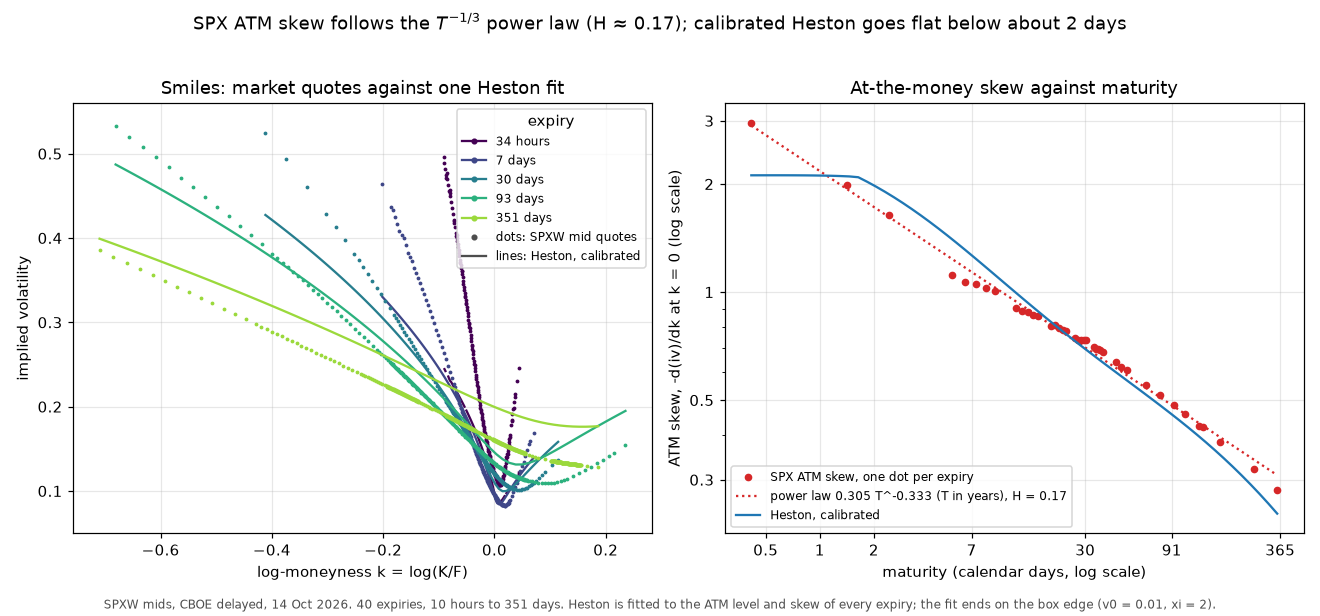
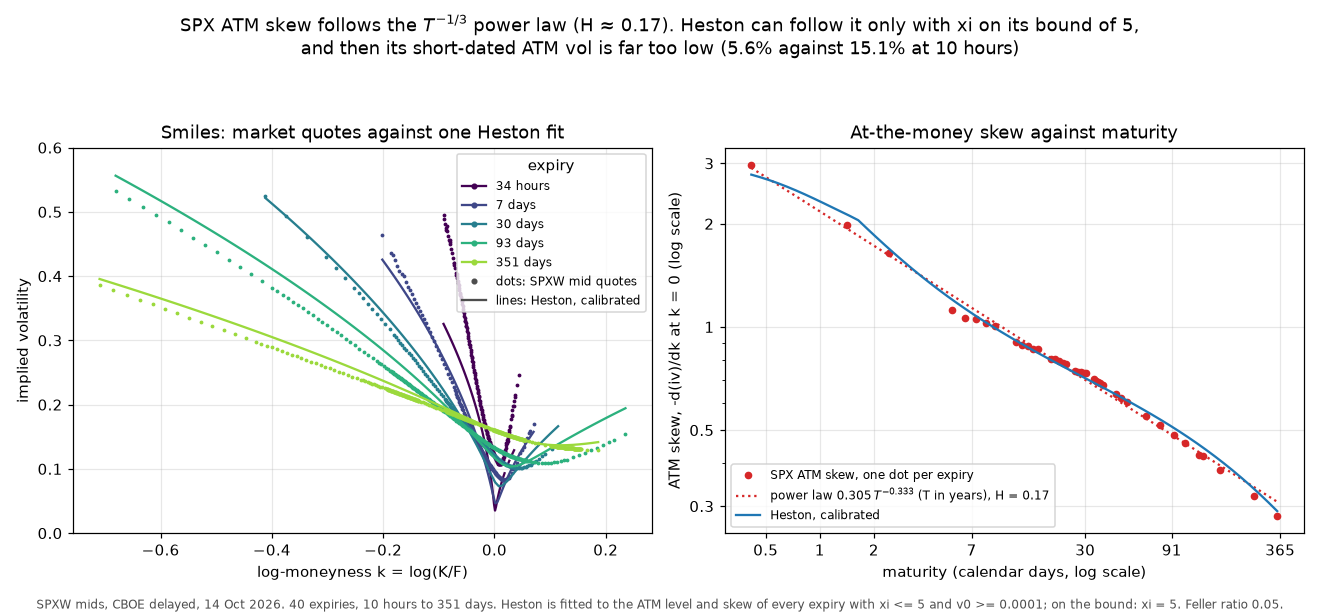
Widen the session 00 Heston box and report that the fit is bound-limited in xi

diff --git a/docs/figure_00.py b/docs/figure_00.py
@@ -3,9 +3,15 @@
 
 The Heston parameters are refit here. The loss is the at-the-money level and
 skew at every expiry, unweighted, in one residual vector, minimised with scipy
-``least_squares`` (``trf``). The box is the session slider box with kappa
-allowed up to 20: v0 in [0.01, 0.15], kappa in [0.1, 20], theta in
-[0.01, 0.15], xi in [0.05, 2], rho in [-0.99, 0.99].
+``least_squares`` (``trf``). The box is v0 in [1e-4, 0.15], kappa in [0.1, 50],
+theta in [0.001, 0.3], xi in [0.05, 5], rho in [-0.99, 0.99]. ``XI_MAX=10``
+raises the xi bound and writes ``docs/00_the_smile_xi10.png`` instead.
+
+Earlier versions used the session slider box (v0 >= 0.01, xi <= 2). The fit
+ended on both of those edges, so its flat short end was set by the box and not
+by the data. In the wider box v0 moves inside and only xi stays on its edge.
+Starts whose residuals are not finite are skipped (one of 35), and a residual
+that turns non-finite during a fit is replaced by 10.
 
 The fit is a seeded multi-start: the three hand-picked starts used before,
 plus 32 points of a scrambled Sobol sequence (seed 0) spread over the box.
@@ -20,6 +26,7 @@ discontinuous. Earlier versions of this figure fitted that discontinuous loss,
 which is why their result depended on the optimiser's path.
 """
 
+import os
 from pathlib import Path
 
 import matplotlib
@@ -34,9 +41,11 @@ from scipy.stats import qmc  # noqa: E402
 
 from volsurface import chains, models, smile  # noqa: E402
 
-# Slider box from sessions/00_the_smile.py, with the kappa upper used in LOG.md.
-LO = np.array([0.01, 0.1, 0.01, 0.05, -0.99])
-HI = np.array([0.15, 20.0, 0.15, 2.0, 0.99])
+# Wide enough that only xi, the parameter the short-end skew needs, can bind.
+LO = np.array([1e-4, 0.1, 0.001, 0.05, -0.99])
+# XI_MAX=10 python docs/figure_00.py reruns the fit with a wider xi bound (README).
+XI_MAX = float(os.environ.get("XI_MAX", "5"))
+HI = np.array([0.15, 50.0, 0.3, XI_MAX, 0.99])
 NAMES = ("v0", "kappa", "theta", "xi", "rho")
 HAND_STARTS = (
     np.array([0.011, 3.0, 0.04, 0.4, -0.9]),
@@ -71,7 +80,15 @@ def _residuals(x: np.ndarray) -> np.ndarray:
 
 
 # %% Fit
-results = [least_squares(_residuals, x0, bounds=(LO, HI), method="trf") for x0 in starts()]
+def _safe(x: np.ndarray) -> np.ndarray:
+    r = _residuals(x)
+    return np.where(np.isfinite(r), r, 10.0)
+
+
+all_starts = starts()
+finite_starts = [x0 for x0 in all_starts if np.all(np.isfinite(_residuals(x0)))]
+print(f"starts with finite residuals: {len(finite_starts)} of {len(all_starts)}")
+results = [least_squares(_safe, x0, bounds=(LO, HI), method="trf") for x0 in finite_starts]
 order = sorted(range(len(results)), key=lambda i: (round(float(results[i].cost), 10), i))
 best = results[order[0]]
 n_hit = sum(abs(r.cost - best.cost) <= 1e-6 * best.cost for r in results)
@@ -160,7 +177,7 @@ handles += [
 ax.set(
     xlabel="log-moneyness k = log(K/F)",
     ylabel="implied volatility",
-    ylim=(0.05, 0.56),
+    ylim=(0.0, 0.6),
     title="Smiles: market quotes against one Heston fit",
 )
 ax.grid(True, alpha=0.3)
@@ -170,7 +187,7 @@ ax = fig.add_subplot(1, 2, 2)
 ax.loglog(365 * maturities, -market_skew, "o", ms=4, color="#d62728",
           label="SPX ATM skew, one dot per expiry")
 ax.loglog(365 * T_line, A * T_line**-alpha, ":", color="#d62728",
-          label=f"power law {A:.3f} T^-{alpha:.3f} (T in years), H = {H:.2f}")
+          label=f"power law ${A:.3f}\\,T^{{-{alpha:.3f}}}$ (T in years), H = {H:.2f}")
 ax.loglog(365 * T_line, model_line, color="#1f77b4", label="Heston, calibrated")
 xt = [0.5, 1, 2, 7, 30, 91, 365]
 ax.xaxis.set_major_locator(FixedLocator(xt))
@@ -187,21 +204,26 @@ ax.set(
 )
 ax.grid(True, which="major", alpha=0.3)
 ax.legend(fontsize=8, loc="lower left")
+feller = 2 * fit.kappa * fit.theta / fit.xi**2
+xi_text = f"xi on its bound of {HI[3]:g}" if "xi" in at_bound else f"xi = {fit.xi:.2f}"
 fig.suptitle(
-    f"SPX ATM skew follows the $T^{{-1/3}}$ power law (H \u2248 {H:.2f}); "
-    f"calibrated Heston goes flat below about {flat_days:.0f} days",
+    f"SPX ATM skew follows the $T^{{-1/3}}$ power law (H \u2248 {H:.2f}). Heston can follow it "
+    f"only with {xi_text},\nand then its short-dated ATM vol is far too low "
+    f"({100 * pred[0, 0]:.1f}% against {100 * market_atm[0]:.1f}% at 10 hours)",
     fontsize=12,
 )
 fig.text(
     0.5,
     0.012,
     f"{SOURCE}. {len(ts)} expiries, 10 hours to 351 days. Heston is fitted to the ATM "
-    f"level and skew of every expiry; the fit ends on the box edge ({bound_text}).",
+    f"level and skew of every expiry with xi <= {HI[3]:g} and v0 >= {LO[0]:g}; "
+    f"on the bound: {bound_text or 'none'}. Feller ratio {feller:.2f}.",
     ha="center",
     fontsize=8,
     color="0.3",
 )
-fig.tight_layout(rect=(0, 0.03, 1, 0.96))
-out = Path(__file__).with_name("00_the_smile.png")
+fig.tight_layout(rect=(0, 0.03, 1, 0.93))
+suffix = "" if XI_MAX == 5.0 else f"_xi{XI_MAX:g}"
+out = Path(__file__).with_name(f"00_the_smile{suffix}.png")
 fig.savefig(out, dpi=110)
 print(out)

diff --git a/README.md b/README.md
@@ -8,8 +8,9 @@ Black-Scholes, Heston, SABR and rough Bergomi through one interface.
 The left panel shows SPXW mid quotes on 14 October 2026 (dots) and one calibrated Heston
 model (lines), fitted to the at-the-money level and skew of all 40 expiries. The right panel
 is the reason this repository exists: the market's at-the-money skew grows like
-$T^{-1/3}$ as expiry shrinks, while the calibrated Heston skew stops growing below about
-2 days. Rough volatility models predict the power law. The chain is SPX, not SPY: see
+$T^{-1/3}$ as expiry shrinks. Rough volatility models predict the power law. Heston follows
+it only with its vol-of-vol on the upper bound of the fit ($\xi = 5$), and then its
+short-dated at-the-money vol is far too low (5.6% against 15.1% at 10 hours). The chain is SPX, not SPY: see
 [docs/notes/spx_not_spy.md](docs/notes/spx_not_spy.md).
 
 ## Why
@@ -72,15 +73,15 @@ python scripts/build_cboe_spx_snapshot.py    # CBOE delayed SPXW quotes; the com
 
 - **Session 00.** On the 14 October 2026 SPXW mids, the at-the-money skew follows
   $|\psi(T)| \approx 0.305\, T^{-0.333}$ from about 10 hours to 351 days. The Heston fit
-  in `docs/figure_00.py` (35 seeded starts in the session box, $\xi \le 2$) has
-  $\rho = -0.551$, with $v_0$ and $\xi$ on the edge of the box. The front skew is 2.12 in
-  the fit against the market's 2.96. At 351 days the fit is 0.24 against the market's 0.28.
-  The fit trades the front against the rest of the curve: its skew stops rising below about
-  2 days, towards Heston's short-maturity limit $\rho\xi / (4\sqrt{v_0}) = 2.76$, while the
-  market's keeps rising. An earlier version of this script reported $\rho = -0.533$ and a
-  front skew of 1.87; that number came from a loss with a discontinuity (see the script's
-  docstring); [docs/notes/heston_fit_old_vs_new.md](docs/notes/heston_fit_old_vs_new.md)
-  reproduces it and explains the difference.
+  in `docs/figure_00.py` (35 seeded starts, $v_0 \ge 10^{-4}$, $\xi \le 5$) has
+  $\rho = -0.622$ with $\xi$ on its bound and a Feller ratio of 0.05. Its skew follows the
+  market (2.78 against 2.96 at the front, 0.29 against 0.28 at 351 days), but its
+  at-the-money vol at 10 hours is 5.6% against 15.1%. With $\xi \le 10$ the fit moves to
+  that bound too, so the result is bound-limited: on this loss Heston trades short-dated
+  level for short-dated skew. Earlier versions, in a box with $\xi \le 2$, reported
+  $\rho = -0.533$ and then $-0.551$ and a skew that went flat below about 2 days;
+  [docs/notes/heston_fit_old_vs_new.md](docs/notes/heston_fit_old_vs_new.md) reproduces
+  each version and explains the differences.
 
 ## Licence
 

diff --git a/LOG.md b/LOG.md
@@ -40,6 +40,27 @@ unchanged; only the dependency versions differed, and those were not recorded
 on 14 October. Detail: `docs/notes/heston_fit_old_vs_new.md`,
 `scripts/heston_fit_old_vs_new.py`.
 
+Later the same day: the fit above ends on two edges of the session box
+(`v0 >= 0.01`, `xi <= 2`), so its flat short end was set by the box. In a
+wider box (`v0` in [1e-4, 0.15], `kappa` in [0.1, 50], `theta` in [0.001,
+0.3], `xi` in [0.05, 5]), same loss and same seeded design (34 of 35 starts
+have finite residuals; the other is skipped), the cost falls from 0.5288 to
+0.0658: `v0 = 0.00292`, `kappa = 10.15`, `theta = 0.0563`, `xi = 5.000` on
+the new edge, `rho = -0.6218`, Feller ratio 0.046. The model skew now follows
+the market: -2.782 against -2.965 at the front, -2.128 against -1.989 at 1.42
+days, -1.076 against -1.057 at 7.42 days, -0.290 against -0.282 at 351 days.
+The price is the at-the-money level: 0.056 against 0.151 at the front and
+0.048 against 0.120 at 1.42 days (`sqrt(v0) = 0.054`; the narrow-box fit had 0.099 at the
+front), rmse 0.0365 against
+0.0158 in the narrow box. The T to 0 limit is -14.39. With `xi <= 10`
+(`XI_MAX=10`) `xi` again ends on the edge: cost 0.0197, `v0 = 0.00553`,
+`kappa = 20.76`, `rho = -0.5584`, Feller ratio 0.028, front skew -2.930 and
+front level 0.070. So on this loss Heston has no interior optimum in `xi`:
+it buys the short-end skew with vol-of-vol and a low `v0`, and pays in the
+short-dated level. "Heston goes flat below about 2 days" was a statement
+about the box and is withdrawn. `docs/figure_00.py` now uses the `xi <= 5`
+box and says so in its caption.
+
 ## 2026-10-19 Review: path-bootstrap intervals for the gate filter skills
 
 The three gate filter skills on the 4,000-path draw, clock index 10, are spot 0.1178, windowed 0.2071 and latent 0.2849. A path bootstrap of 10,000 resamples gives 95 percent intervals [0.0915, 0.1439], [0.1794, 0.2339] and [0.2556, 0.3137]. Windowed minus spot is 0.0893, interval [0.0604, 0.1190]. Latent minus windowed is 0.0778, interval [0.0616, 0.0943]. Hit rates are 0.6608, 0.7048 and 0.7438, with intervals [0.6463, 0.6755], [0.6905, 0.7188] and [0.7300, 0.7573].

diff --git a/docs/notes/heston_fit_old_vs_new.md b/docs/notes/heston_fit_old_vs_new.md
@@ -76,3 +76,31 @@ same basin as the current fit.
   `rho` between -0.553 and -0.551. `v0` and `xi` end on the edge of the box,
   and `kappa` and `theta` are not identified (kappa from 2.0 to 7.1 across
   those starts), so only `rho`, the skews and the cost should be quoted.
+
+## Update, later on 22 October: the box was binding
+
+The 22 October fit above ends with `v0` and `xi` on the edge of the session
+box, so its flat short end was a property of the box. `docs/figure_00.py`
+now uses a wider box, `v0` in [1e-4, 0.15], `kappa` in [0.1, 50], `theta` in
+[0.001, 0.3], `xi` in [0.05, 5], with the same loss and seeded design. One of
+the 35 starts has non-finite residuals in this box and is skipped.
+
+| | session box (`xi <= 2`) | `xi <= 5` (current figure) | `xi <= 10` (`XI_MAX=10`) |
+|---|---|---|---|
+| cost | 0.5288 | 0.0658 | 0.0197 |
+| v0, kappa, theta | 0.0100, 4.11, 0.0806 | 0.00292, 10.15, 0.0563 | 0.00553, 20.76, 0.0670 |
+| xi, rho | 2.000, -0.5515 | 5.000, -0.6218 | 10.000, -0.5584 |
+| on the bound | v0, xi | xi | xi |
+| Feller ratio | 0.17 | 0.046 | 0.028 |
+| front skew (market 2.965) | 2.115 | 2.782 | 2.930 |
+| skew at 351 days (market 0.282) | 0.241 | 0.290 | 0.263 |
+| front ATM vol (market 0.151) | 0.099 | 0.056 | 0.070 |
+| ATM rmse over 40 expiries | 0.0158 | 0.0365 | 0.0240 |
+
+The cost keeps falling as the `xi` bound rises, so this loss has no interior
+optimum in `xi`. Heston buys the short-end skew with a large vol-of-vol and a
+small `v0` (the T to 0 skew limit is `rho xi / (4 sqrt(v0))`), and pays for it
+in the short-dated at-the-money level, which tends to `sqrt(v0)`. The earlier
+README sentence that calibrated Heston "goes flat below about 2 days" was a
+property of the session box and is withdrawn. The power law and the 14 and
+22 October explanations above are unaffected.
